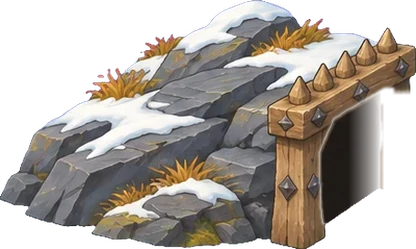
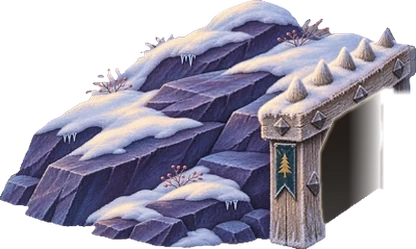
night(codex): round 12

diff --git a/tools/map-compose/compose.py b/tools/map-compose/compose.py
@@ -92,11 +92,11 @@ from gates import (  # noqa: E402
 )
 import fords  # noqa: E402
 from banks import shore_foundation  # noqa: E402
-from masonry import RoadArcade, brick_spur, cart_tracks, marble_road, moat_wall  # noqa: E402
+from masonry import RoadArcade, brick_spur, cart_tracks, marble_road, moat_wall, paved_road  # noqa: E402
 from keeps import Keep  # noqa: E402
 from ground import (  # noqa: E402
     Decals, DressingArea, brushed_surface, dusty_road_coverage, fine_detail, inner_band, paint_over_road, ragged_mask,
-    ring, road_footprint, road_fringe, scatter,
+    ring, road_footprint, road_fringe, scatter, windblown_road_coverage,
 )
 from ringfit import measure_ring  # noqa: E402
 
@@ -771,13 +771,15 @@ road_mask = ragged_mask(road_hard, rw * 0.05, max(4, round(rw * 0.16 / noise_sca
 road_material = load(dressing.get('roadMaterial', 'tex-dirt.png'))
 if dressing.get('roadPlate'):
     dirt = road_material.resize((W, H), Image.Resampling.BICUBIC)
+elif dressing.get('roadStrip'):
+    dirt = paved_road((W, H), road_material, spl_paths[0], ROAD_W, S)
 elif dressing.get('layMarble'):
     dirt = marble_road((W, H), road_material, spl_paths[0], ROAD_W, S, SEED + 23)
 elif not kit or dressing.get('brushRoad'):
     dirt = brushed_surface(road_material, (W, H), 0.45 * TEX, SEED + 23)
 else:
     dirt = tiled(road_material, W, H, 0.45 * TEX)
-if not dressing.get('layMarble') and not dressing.get('roadPlate'):
+if not any(dressing.get(mode) for mode in ('layMarble', 'roadPlate', 'roadStrip')):
     dirt = fine_detail(dirt, road_material, round(1024 * 0.16 * TEX), 0.45, 7 * TEX)
 if 'cartLane' in dressing:
     cart_tracks(dirt, spl_paths[dressing['cartLane']], ROAD_W, S, SEED + 37)
@@ -803,7 +805,9 @@ if 'branchMaterial' in dressing:
     ImageDraw.Draw(branch).line([P(p) for p in first], fill=255, width=round(rw * 1.6), joint='curve')
     dirt = Image.composite(branch_paint, dirt, branch.filter(ImageFilter.GaussianBlur(rw * 0.1)))
     del branch_paint, branch
-if dressing.get('dustyShoulders'):
+if dressing.get('snowShoulders'):
+    ground = Image.composite(dirt, ground, windblown_road_coverage(road_mask, S, SEED + 51))
+elif dressing.get('dustyShoulders'):
     ground = Image.composite(dirt, ground, dusty_road_coverage(road_mask, S, SEED + 51))
 else:
     # Shade the grass, trace the rim, then lay the road and its shallow inside lip.
@@ -934,6 +938,7 @@ PROPS = [('prop-tree-1.png', 2.1), ('prop-tree-2.png', 2.4), ('prop-tree-3.png',
          ('prop-rock-1.png', 0.9), ('prop-rock-2.png', 0.8), ('prop-flowers.png', 0.55)]
 PROPS = dressing.get('scatterProps', kit_spec.get('props', PROPS))
 WEIGHTS = dressing.get('propWeights', [5, 3, 2, 4, 2, 2, 2])
+repeat_gap = dressing.get('repeatGap', kit_spec.get('repeatGap', 2))
 prop_ims = {n: load(n) for n, _ in PROPS}
 rnd = random.Random(SEED)
 placed = []
@@ -960,7 +965,7 @@ while len(placed) < prop_count and tries < 12000:
     # Leave complete silhouettes at the desktop crop as well as the phone edges.
     if any(rect[0] < edge < rect[2] for edge in (sx, sx+sw)):
         continue
-    if any(rects_hit(rect, other, kit_spec.get('repeatGap', 2) if previous == name else 2)
+    if any(rects_hit(rect, other, repeat_gap if previous == name else 2)
            for previous, other in placed):
         continue
     placed.append((name, rect))

diff --git a/tools/map-compose/test_ground.py b/tools/map-compose/test_ground.py
@@ -8,12 +8,41 @@ import fords
 from banks import shore_foundation
 from gates import draw_threshold_road, output_sprite
 from keeps import Keep, sample
-from masonry import RoadArcade, brick_spur, cart_tracks
+from masonry import RoadArcade, brick_spur, cart_tracks, paved_road
 
 from ground import Decals, DressingArea, brushed_surface, dusty_road_coverage, paint_over_road, road_footprint, road_fringe, scatter
+from ground import windblown_road_coverage
 
 
 class GroundTests(unittest.TestCase):
+    def test_paving_strip_runs_once_from_the_entrance_and_turns_with_the_lane(self):
+        paint = Image.new('RGB', (94, 21), 'slategray')
+        ink = ImageDraw.Draw(paint)
+        ink.rectangle((0, 0, 30, 20), fill='wheat')
+        ink.rectangle((68, 0, 93, 20), fill='tan')
+        ink.rectangle((0, 0, 93, 6), fill='ivory')
+        for scale in (1, 2, 3):
+            paved = paved_road((90*scale, 80*scale), paint, [(8, 58), (65, 58), (65, 8)], 18, scale)
+            for x, y, color in ((11, 58, 'wheat'), (58, 58, 'slategray'), (65, 11, 'tan'),
+                                (21, 50, 'ivory'), (57, 21, 'ivory')):
+                self.assertEqual(paved.getpixel((x*scale, y*scale)), ImageColor.getrgb(color) + (255,))
+
+    def test_snow_drifts_have_variable_depth_and_follow_the_same_shoulder_at_each_scale(self):
+        profiles = []
+        for scale in (1, 2, 3):
+            mask = Image.new('L', (258*scale, 118*scale))
+            ImageDraw.Draw(mask).rectangle((0, 28*scale, mask.width-1, 86*scale-1), fill=255)
+            paving = windblown_road_coverage(mask, scale, 18)
+            self.assertIsNone(ImageChops.subtract(paving, mask).getbbox())
+            self.assertEqual(paving.crop((0, 47*scale, mask.width, 67*scale)).getextrema(), (255, 255))
+            # Integrate the snow across the upper verge in layout pixels.
+            reduced = np.asarray(paving.resize((258, 118), Image.Resampling.BOX))
+            depth = (255 - reduced[28:47]).sum(axis=0) / 255
+            self.assertGreater(depth.max() - depth.min(), 3)
+            profiles.append(depth)
+        for profile in profiles[1:]:
+            np.testing.assert_allclose(profile, profiles[0], atol=.5)
+
     def test_dusty_shoulder_keeps_lane_centre_and_respects_road_boundary(self):
         profiles = []
         for scale in (1, 2, 3):

diff --git a/tools/map-compose/ground.py b/tools/map-compose/ground.py
@@ -105,6 +105,19 @@ def dusty_road_coverage(mask, scale, seed):
     return ImageChops.multiply(mask, edge)
 
 
+def windblown_road_coverage(mask, scale, seed):
+    """Expose the paving between tongues of windblown snow at the road edge."""
+    w, h = mask.size
+    # A gust runs farther along the plateau than across it. Sample the same
+    # drift in layout coordinates for the master and the native 3x map.
+    gusts = value_noise(max(1, round(w / 3)), h, 12, seed, scale).resize(mask.size, Image.Resampling.BICUBIC)
+    powder = value_noise(w, h, 3, seed + 1, scale)
+    depth = Image.blend(gusts, powder, .18).point(lambda v: round(v * .39))
+    soft = mask.filter(ImageFilter.GaussianBlur(7 * scale))
+    exposed = ImageChops.subtract(soft, depth).point(lambda v: (v - 106) * 11)
+    return ImageChops.multiply(mask, exposed)
+
+
 def ring(mask: Image.Image, grow: int, blur: float) -> Image.Image:
     """Band just outside `mask`, `grow` px wide, lightly blurred."""
     g = mask.filter(ImageFilter.MaxFilter(2 * grow + 1))

diff --git a/tools/map-compose/masonry.py b/tools/map-compose/masonry.py
@@ -196,6 +196,18 @@ def marble_road(size, paint, path, width, scale, seed):
     return result
 
 
+def paved_road(size, paint, path, width, scale):
+    """Unroll a painted strip from entrance to keep, preserving each course on bends."""
+    course = RoadCourse(path)
+    half = width * .62
+    density = (paint.height - 1) / (2 * half)
+    strip = paint.convert('RGB').resize((max(2, math.ceil(course.length * density) + 1), paint.height),
+                                        Image.Resampling.LANCZOS)
+    surface = Image.new('RGBA', size, strip.getpixel((0, strip.height // 2)) + (255,))
+    project_strip(surface, strip, course, half, scale, density)
+    return surface
+
+
 def project_strip(surface, strip, course, half, scale, density, end=None):
     """Sample a continuous course of paving along the road's local tangent."""
     size = surface.size

diff --git a/docs/overnight/PROGRESS-codex.md b/docs/overnight/PROGRESS-codex.md
@@ -1,5 +1,29 @@
 # Content overnight · codex
 
+## Round 12 · 03:06–03:35 UTC · codex/night
+
+Started from `0274da1`. The working tree is for the overnight runner.
+
+### Done
+
+- **i03 Highland Citadel.** Meltwater passes under a stone packhorse bridge below the west postern, drops into a plunge pool and spills into a second gorge. Spruce, rowan and snow-covered granite replace the loose parapets and cairns that previously stood in the eastern stream. The cliff and water mask reserves both banks from scatter. Pulled the western lip clear of plots 0 and 17. In the first phone battle the Overcharge button hid the whitewater entering the pool. Raising the pool by about 62 layout pixels brought the impact and foam above the button. The lower waterfall continues behind the ability bar. [Whole island and native 2× details](maps-round12-highland.jpg)
+- The timber postern and garrison hall carry the fir banner from the story. In the eastern court a loaded sledge stands beside the unlit beacon, with a trail of boot prints leading to its tow rope. The sledge clears the stone steps. A single strip of granite setts follows the spiral through both hairpins. Windblown snow covers short stretches of its shoulders. [Source paintings, art briefs and rebuild command](../../design/art-2d/v2/biomes/highlands/highland-citadel.md)
+
+### Verification
+
+- Played Eagle Hunt at wave tick 181 with five towers and five enemies, and Fall of the Citadel at tick 510 with 14 towers and 44 enemies. A review of the initial DPR 2 pair caught the gold counter advancing between the simulation snapshot and the screenshot. The final captures stop the ticker after startup and check the live tick, gold, lives and enemy positions again after each screenshot. The baseline browser loads the archived round-eleven i03 textures. All six final before/after pairs matched on tick, ground-enemy positions, enemy count, builds, gold, lives, camera fit and gate texture widths. Desktop ran at 1920 × 1080 at DPR 1 and 2, phone at 844 × 390 at DPR 3. Both DPR 2 frames loaded the native 3× map. [Desktop battles](maps-round12-desktop.jpg) · [Phone battles at CSS size](maps-round12-phone.jpg)
+- Re-baked with `--keep-plots`. A clean second bake reproduced all eight i03 textures byte for byte. All 25 saved layouts are byte-identical to the starting revision and passed the geometry checks. Decoded all 100 map and 132 gate textures at their registered sizes. The alpha channels of all four i03 fronts match the originals. The west postern retains its existing 34 px bleed at the desktop safe-area edge. The eight shipping textures grew by 438,782 bytes in total, including 69,680 bytes for the 1.5× map loaded on phone.
+- Sixteen Python compositor regressions and both sprite tests passed. Two new regressions follow paving through a turn and compare the depth of windblown snow at three bake resolutions. Full captures, browser snapshots, independent bakes and release logs are under `/tmp/skyhold-codex-r12`.
[1 lines of base64/hex data omitted]
+
+### Requests for other agents
+
+Chapter two still awaits the shared roster, clip loader, death callback, story and Turkish registrations from earlier rounds, plus the i21 horn placement. Round twelve adds no player-facing strings.
+
+### Next round
+
+Inspect i01 Sunlit Meadow, the first numbered island. Its intro shows the cottage, a carved sun stone and a field of red poppies. The battle map has bare turf and repeated freestanding trellises along the margins. Give the wildflowers a natural headland and check the cottage and sun carving with towers on phone. Keep its single entrance, gatehouse and 16 plots. If the shared chapter registrations have landed, verify the production unlock, stories and first kills first.
+
 ## Round 11 · 02:49–03:06 UTC · codex/night
 
 Started from `0b11b4f`. The working tree is ready for the overnight runner.

diff --git a/design/art-2d/v2/biomes/highlands/highland-citadel.md b/design/art-2d/v2/biomes/highlands/highland-citadel.md
@@ -1,0 +1,21 @@
+# Highland Citadel
+
+The western meltwater runs under a packhorse bridge, drops into a plunge pool and falls a second time into the gorge. The snow shelf between the water and the spiral carries the western tower pads. Both the garrison hall and the flag on the west postern carry the gold fir from the intro. The watchfire in the eastern court holds split logs for the beacon lighting in the outro.
+
+## Source paintings
+
+The built-in ImageGen tool produced the paintings below. The compositor uses the finished WebPs from this directory.
+
+| File | Generation brief and registration |
+| --- | --- |
+| `terrain-i03.webp` | Paint the old snowfield from its fixed overhead camera. Follow a narrow stream from the west edge over two granite shelves. Put a stone packhorse bridge above the first drop, a turquoise plunge pool between the falls and spray in the lower gorge. Keep the northeastern fissure and the central snowfield. On the fitted plate, repaint the pinched stones and spruce beside the plunge pool. Pull the left bank away from the two western pads. Raise the first plunge pool so the whitewater lands above the phone ability bar. |
+| `fir-postern-e.webp` | Retexture the existing east-facing cave in violet slate, weathered beams and snow. Hang a teal pennon with a gold fir on the near post. Retain the dark aperture and the rock silhouette. The finish is registered to the two measured jambs on the original 404 × 243 canvas. |
+| `landmark-fir-hall.webp` | Paint a compact granite great hall with a steep snow-striped slate roof, two lit lancet windows, fir banner, timber door, three stone steps and a square corner tower. Use a steep three-quarter view and isolate the entire footprint. |
+| `landmark-fir-beacon.webp` | Set a cold iron fire basket full of split wood on a short round stone drum. Add two steps, a poker and a carved fir on the front block. Show the wood in the open basket from above. |
+| `landmark-kindling-sled.webp` | Lash split billets and a small hatchet onto a low ash sledge. Turn its bowed runners toward the lower left and let the tow rope fall slack ahead of them. Give the sledge warm cut ends and cool metal runner strips. |
+| `snow-spruces.webp` and `winter-rowan.webp` | Paint three spruce of different ages with scalloped snow on the blue-green boughs. In a separate painting, place a low rowan beside two snow-capped stones. Give it red berries, bare wind-bent stems and curled burgundy leaves. Both groups have transparent margins and visible feet. |
+| `tex-frost-setts.webp` | Paint a whole military courtyard from overhead in tightly fitted granite setts with crisp mortar and small icy edge highlights. Four courses cut from the field form a continuous strip, with a transverse course at each join. The bake unrolls the strip along the spiral between the postern and keep. |
+
+The black areas of `dressing-i03.webp` reserve the waterfalls, bridge, fissure and cliff lips from scatter. The shallow heel and toe impressions in `landmark-snow-steps.webp` follow the walk from the verge to the sled handle. The map and foregrounds carry all the new scenery at runtime.
+
+Rebuild the four map sizes and both pairs of fronts with `/usr/bin/python3 -B tools/map-compose/rebake_all.py i03`.
